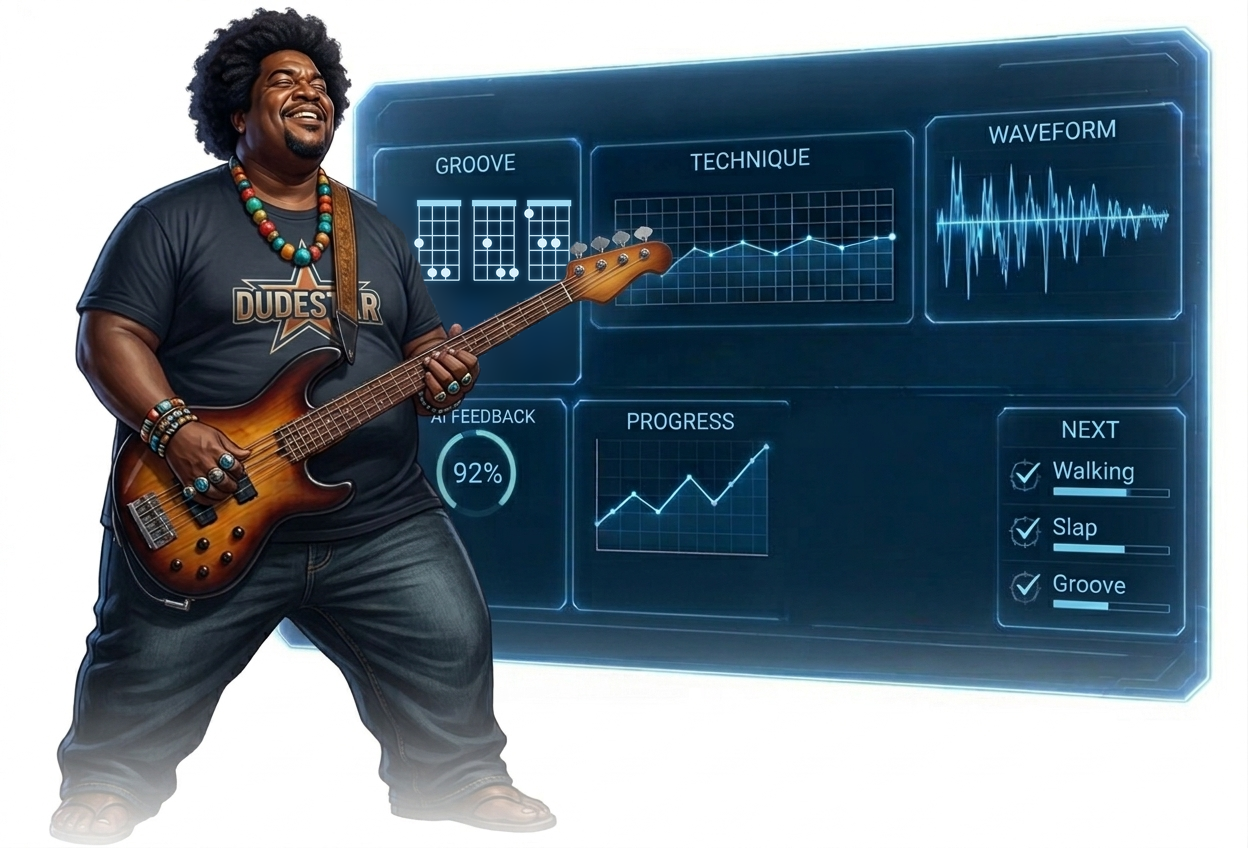
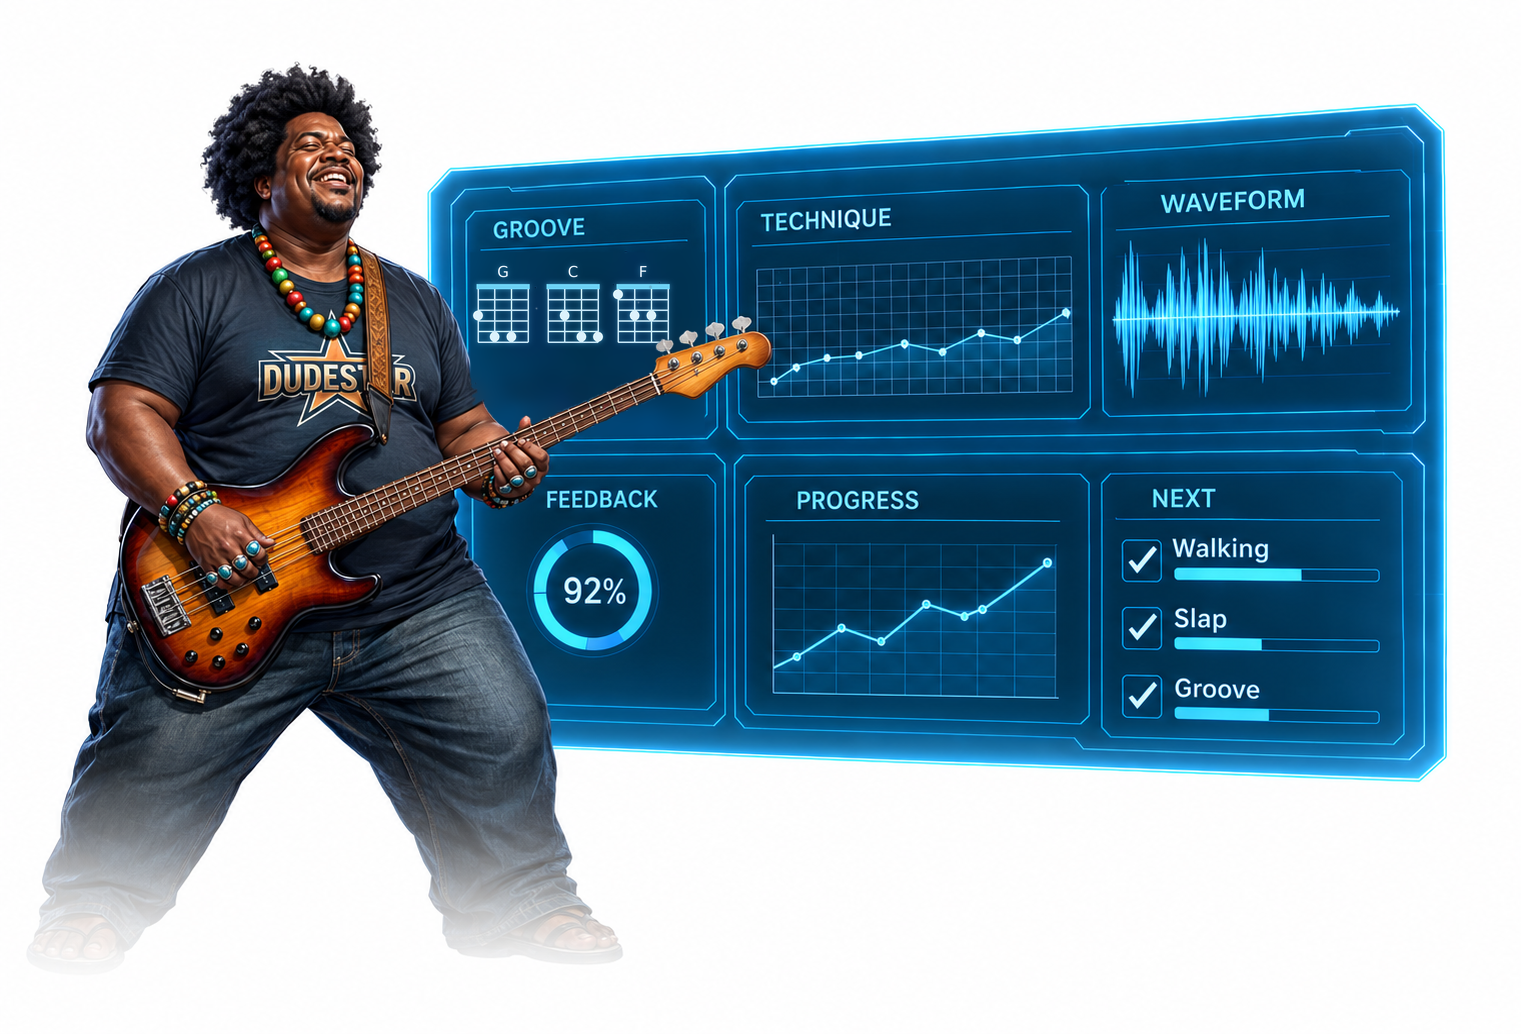
Bass Teacher picture: user's PNG version with the GROOVE panel repainted
Claude-Session: https://claude.ai/code/session_01Lja3nifXGPpxthgc1y42Tx

diff --git a/scripts/bass-teacher-screen-fix.py b/scripts/bass-teacher-screen-fix.py
@@ -1,44 +1,49 @@
-# Repaint the bass-teacher picture's GROOVE panel: 3 real 4-string bass
-# diagrams (root-5th-octave patterns), drawn behind the player / bass neck.
+# Repaint the bass-teacher picture's GROOVE panel (PNG version, 2026-10-26):
+# 3 real 4-string bass diagrams (root-5th-octave) with names, behind the
+# player / bass neck. Usage: <src> [out]
 import sys
 import numpy as np
-from PIL import Image, ImageDraw, ImageFilter
+from PIL import Image, ImageDraw, ImageFilter, ImageFont
 from scipy.ndimage import gaussian_filter, binary_opening
 SRC = sys.argv[1]; OUT = sys.argv[2] if len(sys.argv) > 2 else 'bass-teacher.png'
+SANS = '/usr/share/fonts/truetype/dejavu/DejaVuSans.ttf'
 img = Image.open(SRC).convert('RGB'); A = np.asarray(img).astype(float)
-r, g, b = A[..., 0], A[..., 1], A[..., 2]
+r, g, b = A[..., 0], A[..., 1], A[..., 2]; lum = A.mean(2)
 H, W = r.shape
-X0, Y0, X1, Y1 = 377, 186, 576, 381          # panel interior below the title
-box = np.zeros((H, W), bool); box[Y0:Y1, X0:X1] = True
+X0, Y0, X1, Y1 = 470, 252, 705, 435            # panel interior under the GROOVE rule
+yy, xx = np.mgrid[0:H, 0:W]
+box = (xx >= X0) & (xx < X1) & (yy >= Y0) & (yy < Y1)
 screen = box & (b - r > 28)
 screen = binary_opening(screen, iterations=1) | (box & (b - r > 45))
-navy = screen & (A.mean(2) < 95)
+screen |= box & (lum > 110) & (b >= r - 5) & ((xx < 645) | (yy < 318))   # old white labels/dots
+navy = box & (b - r > 28) & (lum < 75)
 den = gaussian_filter(navy.astype(float), 10) + 1e-6
 BG = np.stack([gaussian_filter(A[..., c] * navy, 10) / den for c in range(3)], 2)
 S = 4
 lay = Image.new('RGBA', (W * S, H * S), (0, 0, 0, 0)); d = ImageDraw.Draw(lay)
-LINE = (200, 232, 248, 255); NUT = (160, 218, 242, 255)
-# string 1 = low E (left) .. 4 = G (right); dots [(string, fret)]
-diagrams = [
-    [(1, 3), (2, 5), (3, 5)],   # G: root E3, 5th A5, octave D5
-    [(2, 3), (3, 5), (4, 5)],   # C: root A3, 5th D5, octave G5
-    [(1, 1), (2, 3), (3, 3)],   # F: root E1, 5th A3, octave D3
+LINE = (200, 232, 248, 255); NUT = (110, 210, 245, 255)
+font = ImageFont.truetype(SANS, 15 * S)
+diagrams = [  # name, dots [(string 1=E .. 4=G, fret)]
+    ('G', [(1, 3), (2, 5), (3, 5)]),
+    ('C', [(2, 3), (3, 5), (4, 5)]),
+    ('F', [(1, 1), (2, 3), (3, 3)]),
 ]
-dw, gap, top, ht = 40, 15, 200, 80
-x = 419
-for dots in diagrams:
+dw, gap, top, ht = 50, 20, 284, 58
+x = 478
+for name, dots in diagrams:
     sx = [x + k * dw / 3 for k in range(4)]
-    fy = [top + 6 + k * (ht - 6) / 5 for k in range(6)]
-    d.rectangle((x * S - 2 * S, top * S, (x + dw) * S + 2 * S, (top + 6) * S), fill=NUT)
-    for xx in sx: d.line((xx * S, (top + 6) * S, xx * S, (top + ht) * S), fill=LINE, width=int(1.4 * S))
-    for yy in fy[1:]: d.line((x * S, yy * S, (x + dw) * S, yy * S), fill=LINE, width=int(1.4 * S))
+    fy = [top + 5 + k * (ht - 5) / 5 for k in range(6)]
+    d.text(((x + dw / 2) * S, (top - 7) * S), name, font=font, fill=(235, 245, 255, 255), anchor='ms')
+    d.rectangle(((x - 1.5) * S, top * S, (x + dw + 1.5) * S, (top + 5) * S), fill=NUT)
+    for xs in sx: d.line((xs * S, (top + 5) * S, xs * S, (top + ht) * S), fill=LINE, width=int(1.5 * S))
+    for ys in fy[1:]: d.line((x * S, ys * S, (x + dw) * S, ys * S), fill=LINE, width=int(1.5 * S))
     for s, f in dots:
-        cx = sx[s - 1]; cy = (fy[f - 1] + fy[f]) / 2; rr = 4.6
-        d.ellipse(((cx - rr) * S, (cy - rr) * S, (cx + rr) * S, (cy + rr) * S), fill=(215, 240, 252, 255))
+        cx = sx[s - 1]; cy = (fy[f - 1] + fy[f]) / 2; rr = 4.8
+        d.ellipse(((cx - rr) * S, (cy - rr) * S, (cx + rr) * S, (cy + rr) * S), fill=(220, 242, 252, 255))
     x += dw + gap
 lay = lay.resize((W, H), Image.LANCZOS)
 a = lay.split()[3].filter(ImageFilter.GaussianBlur(3))
-glow = Image.new('RGBA', (W, H), (90, 200, 255, 0)); glow.putalpha(a.point(lambda v: int(v * 0.45)))
+glow = Image.new('RGBA', (W, H), (90, 200, 255, 0)); glow.putalpha(a.point(lambda v: int(v * 0.5)))
 full = Image.new('RGBA', (W, H), (0, 0, 0, 0)); full.alpha_composite(glow); full.alpha_composite(lay)
 F = np.asarray(full).astype(float)
 m = gaussian_filter(screen.astype(float), 0.7)[..., None]

diff --git a/CLAUDE.md b/CLAUDE.md
@@ -801,13 +801,14 @@ on the container; content inside stays top-aligned). Stacked on a phone
   C Am F G as whole notes (RH C4-E4-G4 / C4-E4-A4 / C4-F4-A4 / B3-D4-G4,
   LH C3 A2 F2 G2), keyboards F..E with C-E-G and A-C-E lit. For the card:
   key it (`scripts/home-art-color-to-alpha.py`) to a new webp in public/home.
-- Future Bass Teacher card: `art-src/bass-teacher.png` (1248x848, from the
-  user's JPEG, 2026-10-26: smiling bassist in a DUDESTAR shirt + lesson
-  screen). The GROOVE panel was repainted by `scripts/bass-teacher-screen-fix.py
-  <src> [out]` (the AI kept drawing 6-string boxes): 3 bass diagrams, 4 strings
-  x 5 frets, root-5th-octave shapes G (E3 A5 D5), C (A3 D5 G5), F (E1 A3 D3),
-  drawn only on screen pixels so the player / neck stay in front. The user
-  decided on the character himself (keep it). Bridge still shows ~5 saddles.
+- Future Bass Teacher card: `art-src/bass-teacher.png` (1521x1034 PNG, the
+  user's picture, 2026-10-26: smiling bassist in a DUDESTAR shirt + lesson
+  screen; real 4-string bass). The GROOVE panel was repainted by
+  `scripts/bass-teacher-screen-fix.py <src> [out]` (the AI kept drawing guitar
+  boxes / a piano keyboard there): 3 named bass diagrams, 4 strings x 5 frets,
+  root-5th-octave shapes G (E3 A5 D5), C (A3 D5 G5), F (E1 A3 D3), drawn only
+  on screen pixels so the player / neck stay in front. The user decided on
+  the character himself (keep it).
 
 ## Competitor-gap features (Gibson / Yousician / MusicMentor / Rocksmith+ review, 2026-10-10)
 
